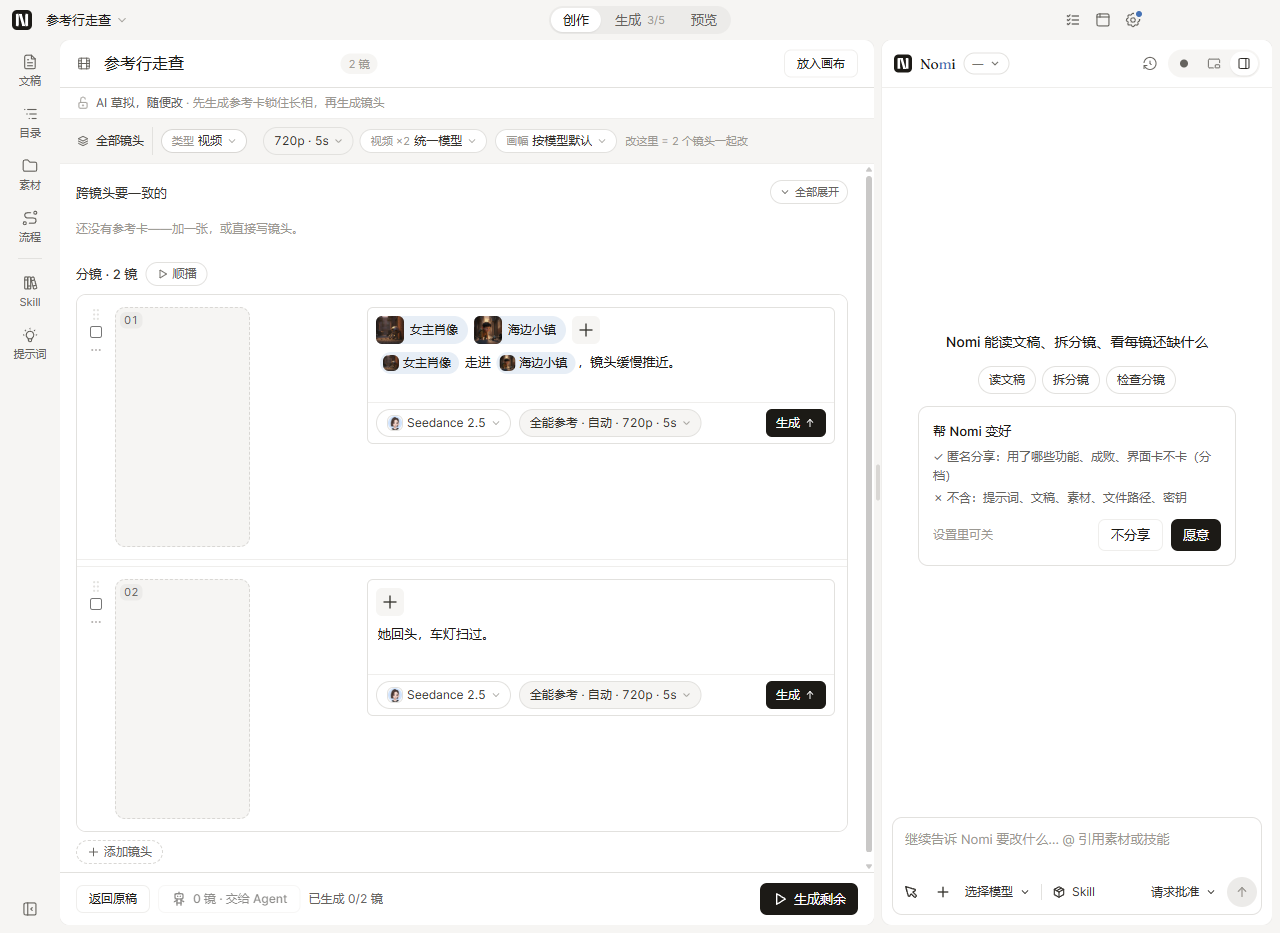
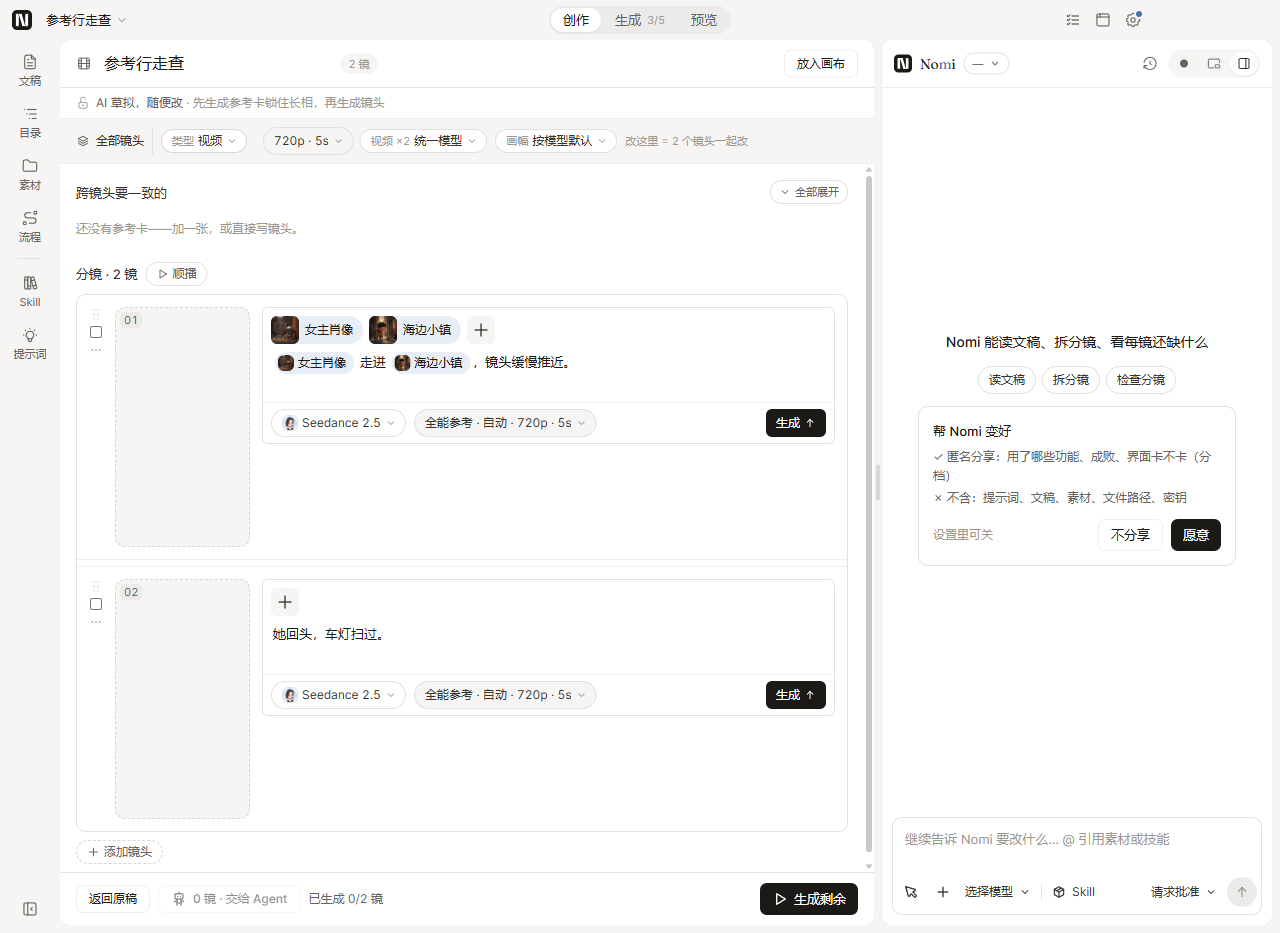
feat(composer-b3): 分镜行竖版视觉列收到框宽，生成框紧接预览列（去掉原参考带的 105px 空档）；真机图重截（先 build）

diff --git a/src/workbench/creation/storyboard/shotRow/shotFrameGeometry.ts b/src/workbench/creation/storyboard/shotRow/shotFrameGeometry.ts
@@ -83,7 +83,9 @@ export function isPortraitBox(box: FrameMediaBox): boolean {
 /**
  * 视觉列宽：横版与方图 = 框宽；**竖版与横版同宽（240）**——框靠左、参考在框右边那条带里，
  * 这样整片竖版时各行左缘和内容列起点仍与横版表一致，参考也不再把行撑高。
+ * `refsBeside = false`（镜头行，B3 / E1a 起参考在提示词上一行）：框右边没有参考带，列宽 = 框宽，生成框紧接预览框；
+ * 只有参考卡（锚点行）还把参考排在竖版框右边，沿用默认值。
  */
-export function visualColumnWidth(box: FrameMediaBox): number {
-  return isPortraitBox(box) ? LONG_EDGE : box.width
+export function visualColumnWidth(box: FrameMediaBox, refsBeside = true): number {
+  return isPortraitBox(box) && refsBeside ? LONG_EDGE : box.width
 }

diff --git a/src/workbench/creation/storyboard/shotRow/StoryboardShotRowPlaceholder.tsx b/src/workbench/creation/storyboard/shotRow/StoryboardShotRowPlaceholder.tsx
@@ -31,7 +31,7 @@ export default function StoryboardShotRowPlaceholder({ shot, frameBox, onActivat
         // 完整行的内容列整块就是「提示词 + 底栏」的输入框：点在内容列任何地方，都按点进提示词处理。
         onActivate(event.target instanceof Element && event.target.closest('[data-storyboard-content-column]') ? 'prompt' : 'row')
       }}
-      visualWidth={visualColumnWidth(frameBox)}
+      visualWidth={visualColumnWidth(frameBox, false)}
       visual={(
         <div className="relative rounded-nomi border border-dashed border-nomi-ink-20 bg-nomi-ink-05" style={{ width: box.width, height: box.height }} aria-hidden>
           <span className="absolute left-1 top-1 rounded-nomi-sm bg-nomi-ink-10 px-1 text-micro tabular-nums text-nomi-ink-60">

diff --git a/src/workbench/creation/storyboard/shotRow/StoryboardShotRow.tsx b/src/workbench/creation/storyboard/shotRow/StoryboardShotRow.tsx
@@ -554,7 +554,7 @@ export default function StoryboardShotRow(props: Props): JSX.Element {
       dropIndicator={props.isDragOver}
       grip={grip}
       visual={visual}
-      visualWidth={visualColumnWidth(frameBox)}
+      visualWidth={visualColumnWidth(frameBox, false)}
       contentStretch={!portrait}
       prompt={prompt}
       footer={variantsOpen ? footer : undefined}
